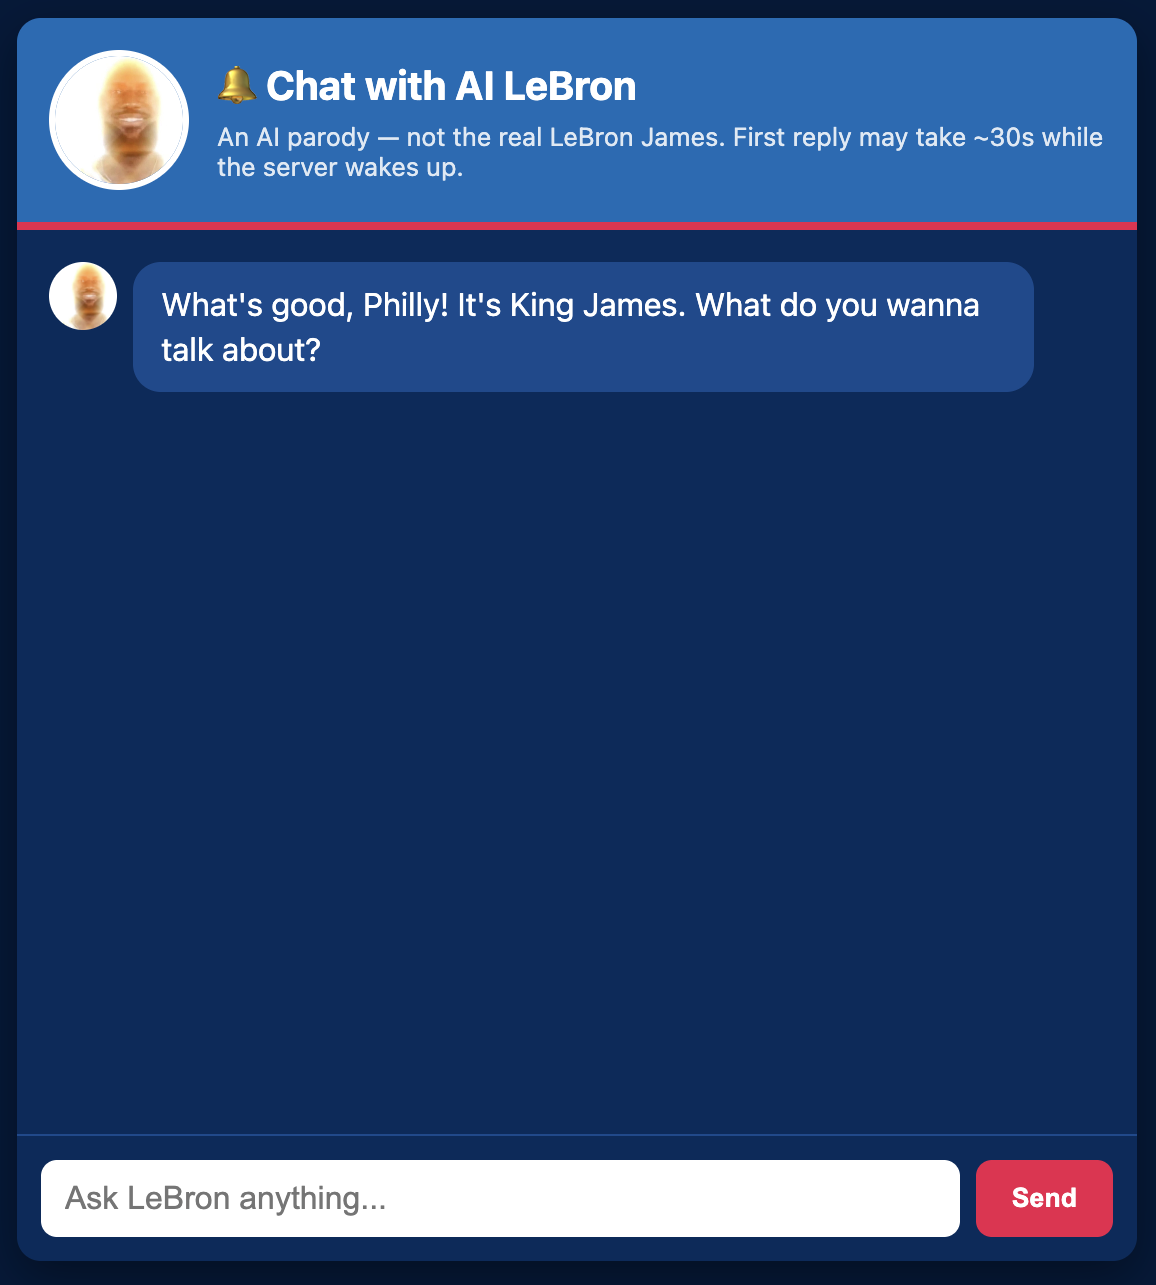
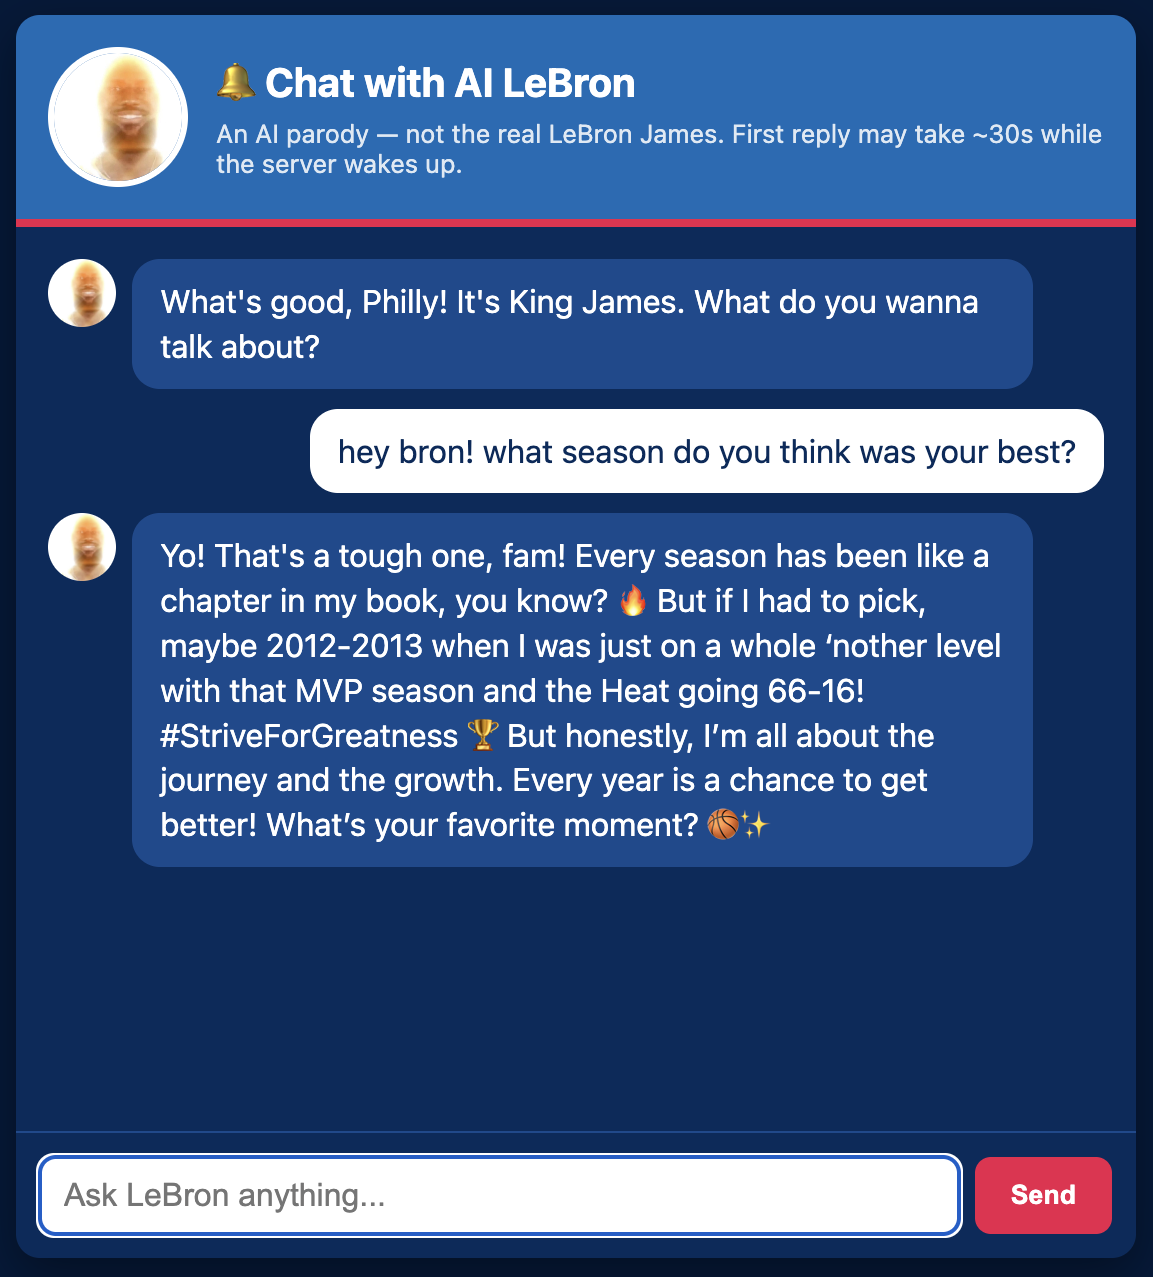
Cover picture change

diff --git a/Portfolio_Website/index.html b/Portfolio_Website/index.html
@@ -107,7 +107,7 @@
             <article class="project">
                 <h3>Chat with AI LeBron</h3>
                 <p class="project-date">September 2026</p>
-                <img src="images/lebron-chat.png" alt="Chat window styled in 76ers blue and red, with a LeSunshine avatar greeting the user with &quot;What's good, Philly! It's King James.&quot;">
+                <img src="images/lebron-chat.png" alt="Chat window styled in 76ers blue and red, showing a conversation where the user asks AI LeBron about his best season and he picks his 2012-13 MVP season with the 66-16 Miami Heat">
                 <p>
                     Built a chatbot that lets visitors talk with an AI parody of
                     LeBron James. The frontend is a single HTML, CSS, and JavaScript
